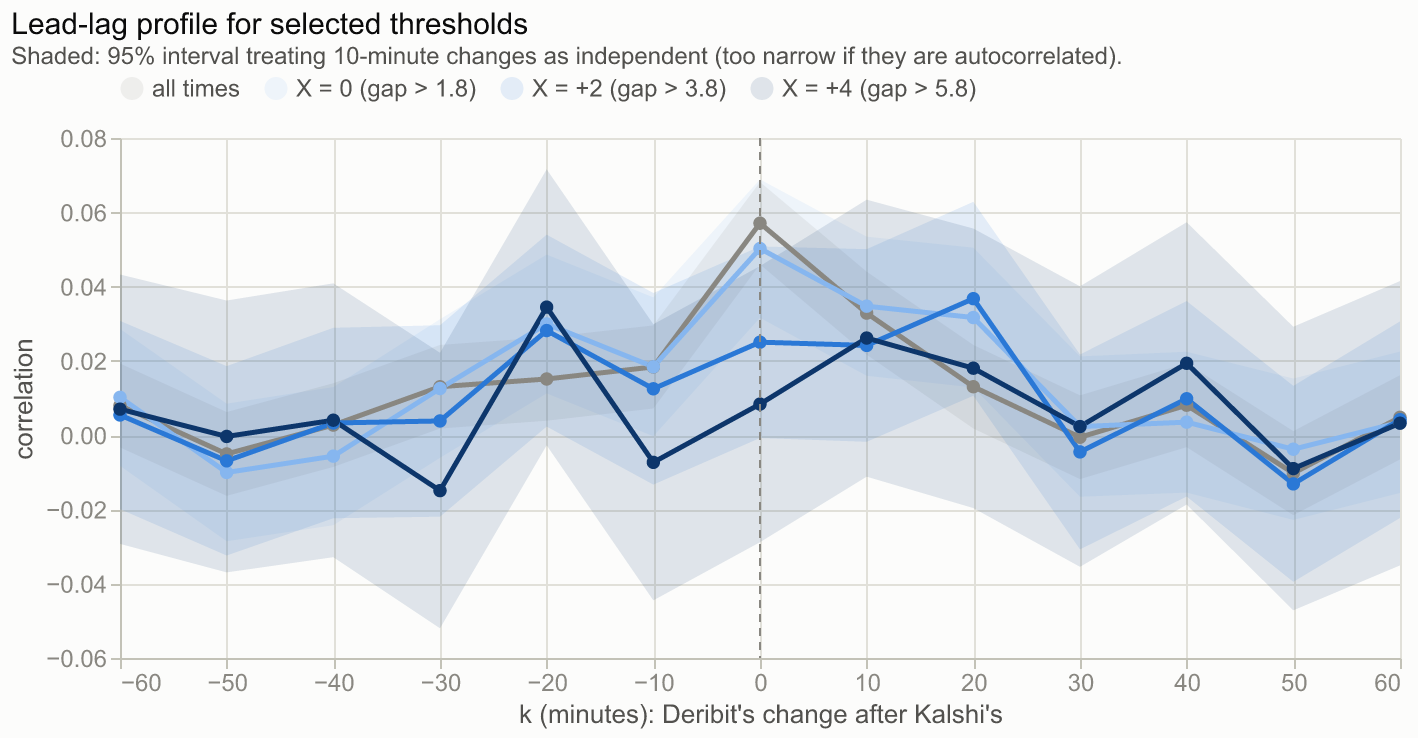
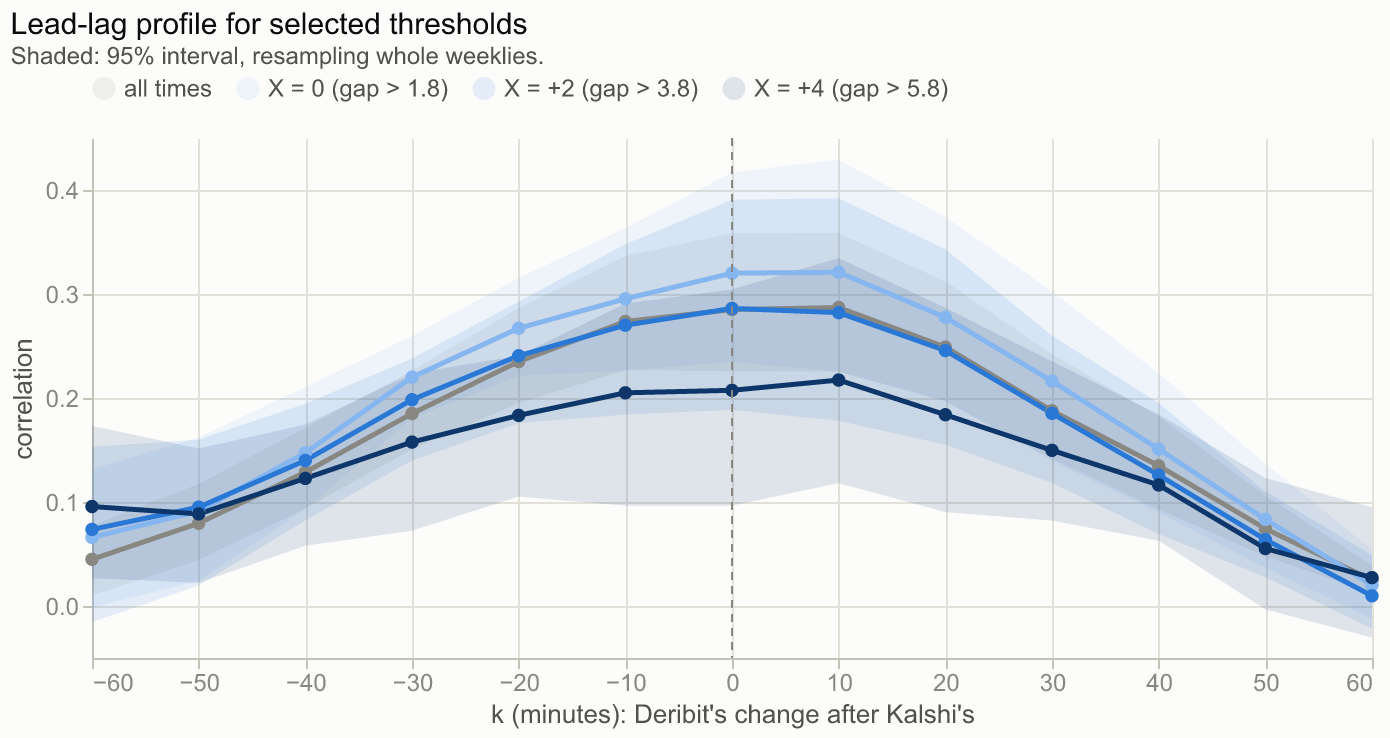
17: lead-lag on 30/60-minute changes (60 by default), week-resampled intervals
10-minute changes are mostly measurement noise (each market's own changes reverse: lag-1
autocorrelation about -0.3), so the same-time correlation is 0.06 at 10 minutes, 0.29 at 60.
conditional_xcorr takes the change window, measures the gap before every change in the window
by default, and bootstraps 95% intervals over whole weeklies (overlapping changes).

diff --git a/17_lead_lag.py b/17_lead_lag.py
@@ -24,23 +24,25 @@ def _(mo):
     Context for the dislocation trade. When Kalshi's vol is unusually far above Deribit's, does one market's move
     show up in the other's a few minutes later?
 
-    **The measure.** Every 10 minutes, the change in each market's at-the-money implied vol: dK(t) for Kalshi's
-    weekly, dD(t) for Deribit's Friday expiry with the same date. Then the correlation between dK(t) and
-    dD(t + k), for k from −60 to +60 minutes in 10-minute steps (`lib/leadlag.py`).
+    **The measure.** The change in each market's at-the-money implied vol over a window of h minutes (60 by default;
+    30 and 10 in the selector below), sampled every 10 minutes: dK(t) for Kalshi's weekly, dD(t) for Deribit's Friday
+    expiry with the same date. Then the correlation between dK(t) and dD(t + k), for k from −60 to +60 minutes in
+    10-minute steps (`lib/leadlag.py`).
 
     - **k > 0**: Deribit's change comes *after* Kalshi's. A peak here means **Kalshi moves first**.
     - **k < 0**: Deribit's change comes first. A peak here means **Deribit moves first**.
-    - **k = 0**: both change in the same 10 minutes.
+    - **k = 0**: both change over the same window.
 
     **The condition.** Only times when the gap, Kalshi − Deribit in vol points, is above **X + 1.8** (1.8 points is
     Kalshi's usual premium), for X from −6 to +6. X = 0 keeps the times Kalshi is richer than usual; X = +4 keeps
-    those where it is 4 points richer than usual. The gap is measured **80 minutes before t**, before every change in
-    the window, so selecting on it cannot select on the changes being correlated (the check at the end shows why
-    this matters).
+    those where it is 4 points richer than usual. The gap is measured **before every change in the window** (60 + h
+    + 10 minutes before t), so selecting on it cannot select on the changes being correlated (the check at the end
+    shows why this matters).
 
-    **How each vol is measured.** Kalshi: its smile every 10 minutes from the 1-minute quotes, as in `03`. Deribit: its
-    smile fitted to the trades in the 10 minutes *before* each time, so it never uses trades from the future, and
-    stretched to Kalshi's 5pm ET expiry as in `05`/`16`.
+    **How each vol is measured.** Kalshi: its smile every 10 minutes from the 1-minute quotes, as in `03`. Deribit:
+    every trade in the 10 minutes *before* each time (so it never uses trades from the future), each trade's mark vol
+    turned into an ATM estimate with the previous hour's smile shape, median taken; stretched to Kalshi's 5pm ET expiry
+    as in `05`/`16`.
 
     It writes nothing when opened; run as a script it saves its figures to `outputs/figures/` (prefixed `17_`).
     """)
@@ -78,7 +80,6 @@ def _(leadlag, mo, pairs):
     ROOT = mo.notebook_dir()
     _hp = pairs.cached_pairs(ROOT)["hour_profile"]
     panel = leadlag.cached_panel(ROOT, _hp)
-    xc = leadlag.conditional_xcorr(panel)
     _live = panel.ts < panel.deribit_expiry
     _both = panel.K.notna() & panel.D.notna()
     mo.md(f"""
@@ -86,15 +87,47 @@ def _(leadlag, mo, pairs):
 
     **{len(panel):,}** usable Kalshi snapshots every 10 minutes in **{panel.event_ticker.nunique()}** weeklies
     ({panel.ts.min():%b %Y} – {panel.ts.max():%b %Y}). {_live.sum():,} fall before Deribit's Friday 08:00 expiry, and
-    **{_both.sum() / _live.sum():.0%}** of those have a Deribit smile from the previous 10 minutes of trades (a median
-    of {panel.n_trades.median():.0f} trades). The gap averages **{panel.gap.mean():+.1f}** points (median
+    **{_both.sum() / _live.sum():.0%}** of those have a Deribit ATM estimate from the previous 10 minutes of trades (a
+    median of {panel.n_trades.median():.0f} trades). The gap averages **{panel.gap.mean():+.1f}** points (median
     {panel.gap.median():+.1f}), against the 1.8 used as "usual".
     """)
-    return ROOT, panel, xc
+    return ROOT, panel
 
 
 @app.cell
-def _(H, INK2, W, alt, leadlag, mo, pd, xc):
+def _(mo):
+    horizon = mo.ui.dropdown({"60 minutes": 60, "30 minutes": 30, "10 minutes": 10}, value="60 minutes",
+                             label="Change window h")
+    return (horizon,)
+
+
+@app.cell
+def _(horizon, leadlag, mo, panel, pd):
+    H_MIN = horizon.value
+    xc = leadlag.conditional_xcorr(panel, change_min=H_MIN)
+    # Why the window matters: 10-minute changes are mostly measurement noise, longer ones carry the common moves
+    _rows = []
+    for _h in (10, 30, 60, 120, 240):
+        _r = leadlag.conditional_xcorr(panel, lags=[0], xs=[], change_min=_h, n_boot=50).iloc[0]
+        _rows.append({"change window": f"{_h} min", "same-time correlation": round(_r["corr"], 2), "observations": f"{_r.n:,}"})
+    mo.vstack([
+        mo.md(f"""
+        ## The change window
+
+        Ten-minute changes in implied vol are mostly measurement noise: Kalshi's quotes move in 1¢ ticks and go stale, and
+        Deribit's estimate rests on a handful of trades, so each market's own 10-minute changes partly reverse the next
+        10 minutes. Noise in two markets does not correlate, while real moves add up over time, so the same-time
+        correlation rises with the window (below). The lead-lag uses **{H_MIN}-minute** changes, still sliding k in
+        10-minute steps; neighbouring observations then overlap, so the 95% intervals resample whole weeklies.
+        """),
+        horizon,
+        mo.ui.table(pd.DataFrame(_rows), selection=None, show_download=False, pagination=False),
+    ])
+    return H_MIN, xc
+
+
+@app.cell
+def _(H, H_MIN, INK2, W, alt, leadlag, mo, pd, xc):
     # Heatmap: correlation by lag (columns) and threshold X (rows); thin cells empty
     _c = xc[xc.x.notna() & (xc.n >= leadlag.MIN_N)].copy()
     _c["X"] = _c.x.astype(int).map(lambda v: f"{v:+d}" if v else "0")
@@ -114,25 +147,31 @@ def _(H, INK2, W, alt, leadlag, mo, pd, xc):
         + _base.mark_text(fontSize=10).encode(text=alt.Text("corr:Q", format="+.2f"), color=alt.condition(
             f"abs(datum.corr) > {_lim * 0.6:.3f}", alt.value("white"), alt.value("#0b0b0b")))
     ).properties(width=W, height=H + 80, title=alt.TitleParams(
-        "Correlation of Kalshi's 10-minute vol change with Deribit's k minutes later",
+        f"Correlation of Kalshi's {H_MIN}-minute vol change with Deribit's, k minutes later",
         subtitle=f"Rows: only times Kalshi − Deribit is above X + 1.8 points; empty cells have fewer than {leadlag.MIN_N} observations."))
 
     _u = xc[xc.x.isna()].set_index("lag")
     _z = xc[(xc.lag == 0) & xc.x.notna()].set_index("x")["corr"]
-    _n4 = int(xc[(xc.lag == 0) & (xc.x == 4)].n.iloc[0])
+    _c6 = xc[(xc.lag == 0) & (xc.x == 6)].iloc[0]
+    _u0 = xc[(xc.lag == 0) & xc.x.isna()].iloc[0]
+    _x6 = xc[xc.x == 6].set_index("lag")["corr"]
+    _l6, _r6 = _x6[_x6.index < 0].mean(), _x6[_x6.index > 0].mean()
     mo.vstack([
         mo.md(f"""
         ## Who moves first
 
         **Unconditionally** (all times), the correlation peaks at **k = {(lambda v: f"{v:+d}" if v else "0")(int(_u["corr"].idxmax()))} minutes**
-        ({_u["corr"].max():+.2f}): the two markets mostly move in the same 10 minutes, with a little more at +10
-        (Kalshi first, {_u["corr"].loc[10]:+.2f}) than at −10 (Deribit first, {_u["corr"].loc[-10]:+.2f}).
+        ({_u["corr"].max():+.2f}, against {_u["corr"].loc[0]:+.2f} at k = 0), and the profile is close to symmetric: {_u["corr"].loc[10]:+.2f} at +10 (Kalshi first)
+        against {_u["corr"].loc[-10]:+.2f} at −10 (Deribit first), {_u["corr"].loc[30]:+.2f} against
+        {_u["corr"].loc[-30]:+.2f} at ±30. Neither market leads: they mostly move together.
 
-        **When Kalshi is rich, the two decouple.** The same-10-minute correlation falls from {_u["corr"].loc[0]:+.2f}
-        (all times) to {_z.loc[0]:+.2f} at X = 0, {_z.loc[2]:+.2f} at X = +2 and {_z.loc[4]:+.2f} at X = +4. No lag picks up
-        what the contemporaneous correlation loses: neither market reliably follows the other within an hour, so a
-        dislocation is not closed by one market catching up with the other's moves. At high thresholds the cells rest on
-        a few thousand changes (95% band about ±{1.96 / _n4 ** 0.5:.2f} at X = +4), so single cells are not significant.
+        **When Kalshi is rich, the two decouple.** The same-time correlation is {_u["corr"].loc[0]:+.2f} at all times,
+        {_z.loc[0]:+.2f} at X = 0, {_z.loc[2]:+.2f} at X = +2, **{_z.loc[4]:+.2f}** at X = +4 and **{_z.loc[6]:+.2f}** at
+        X = +6 (95% interval {_c6.ci_low:+.2f} to {_c6.ci_high:+.2f}, against {_u0.ci_low:+.2f} to {_u0.ci_high:+.2f} at all
+        times). The profile flattens rather than shifting to one side: in a large dislocation the two markets' vols move
+        largely independently, so the gap is not closed by one market quickly copying the other.
+        At X = +6 the Deribit-first side averages {_l6:+.2f} and the Kalshi-first side {_r6:+.2f}: a hint that Kalshi then
+        follows Deribit, on {int(_c6.n):,} observations, so not conclusive.
         """),
         heat_chart,
     ])
@@ -157,7 +196,7 @@ def _(H, INK2, MUTED, W, alt, leadlag, mo, pd, xc):
         + alt.Chart(pd.DataFrame({"x": [0]})).mark_rule(color=MUTED, strokeDash=[4, 3]).encode(x="x:Q")
     ).properties(width=W, height=H, title=alt.TitleParams(
         "Lead-lag profile for selected thresholds",
-        subtitle="Shaded: 95% interval treating 10-minute changes as independent (too narrow if they are autocorrelated)."))
+        subtitle="Shaded: 95% interval, resampling whole weeklies."))
 
     # Observations kept by each threshold
     _nn = xc[(xc.lag == 0) & xc.x.notna()].assign(X=lambda d: d.x.astype(int))
@@ -187,14 +226,16 @@ def _(H, INK2, MUTED, W, alt, leadlag, mo, pd, xc):
 
 
 @app.cell
-def _(H, MUTED, W, alt, leadlag, mo, panel, pd, xc):
-    # Check: why the gap is measured 80 minutes before t. Measured at the start of Kalshi's change instead, it shares
-    # its time stamp with the end of Deribit's change at k = -10, and selecting on a difference of two noisy readings
-    # correlates their noise: a spurious negative correlation that deepens with the threshold.
-    _late = leadlag.conditional_xcorr(panel, lags=[-10], gap_lead_min=leadlag.STEP_MIN)
+def _(H, MUTED, W, alt, leadlag, mo, panel, pd):
+    # Check, on 10-minute changes where it is clearest: why the gap is measured before every change in the window.
+    # Measured at the start of Kalshi's change instead, it shares its time stamp with the end of Deribit's change at
+    # k = -10, and selecting on a difference of two noisy readings correlates their noise: a spurious negative
+    # correlation that deepens with the threshold.
+    _late = leadlag.conditional_xcorr(panel, lags=[-10], change_min=10, gap_lead_min=10, n_boot=50)
+    _clean = leadlag.conditional_xcorr(panel, lags=[-10], change_min=10, n_boot=50)      # gap 80 minutes before t
     _cmp = pd.concat([
         _late[_late.x.notna()].assign(timing="gap at the start of Kalshi's change (biased)"),
-        xc[(xc.lag == -10) & xc.x.notna()].assign(timing="gap 80 minutes earlier (used)"),
+        _clean[_clean.x.notna()].assign(timing="gap 80 minutes earlier (used)"),
     ])
     _dom = ["gap at the start of Kalshi's change (biased)", "gap 80 minutes earlier (used)"]
     check_chart = (
@@ -203,13 +244,13 @@ def _(H, MUTED, W, alt, leadlag, mo, panel, pd, xc):
             color=alt.Color("timing:N", title=None, sort=_dom, legend=alt.Legend(labelLimit=0), scale=alt.Scale(domain=_dom, range=["#c23b3b", "#2a78d6"])),
             tooltip=["timing:N", "x:Q", alt.Tooltip("corr:Q", format="+.3f"), alt.Tooltip("n:Q", format=",")])
         + alt.Chart(pd.DataFrame({"y": [0]})).mark_rule(color=MUTED, strokeDash=[4, 3]).encode(y="y:Q")
-    ).properties(width=W, height=H - 40, title="Check: the k = −10 correlation under the two gap timings")
-    _b, _g = _late.set_index("x")["corr"], xc[(xc.lag == -10)].set_index("x")["corr"]
+    ).properties(width=W, height=H - 40, title="Check (10-minute changes): the k = −10 correlation under the two gap timings")
+    _b, _g = _late.set_index("x")["corr"], _clean.set_index("x")["corr"]
     mo.vstack([
         mo.md(f"""
         ## Check: when the gap is measured matters
 
-        Measured at the start of Kalshi's change, the gap shares its time stamp with the *end* of Deribit's change at
+        With 10-minute changes, measured at the start of Kalshi's change, the gap shares its time stamp with the *end* of Deribit's change at
         k = −10. Selecting times where a difference of two noisy readings is large makes those readings' noise
         correlated, which shows up as a negative correlation at k = −10 that deepens with the threshold
         ({_b.loc[0]:+.3f} at X = 0, {_b.loc[4]:+.3f} at X = +4, {_b.loc[6]:+.3f} at X = +6). It would read as "when

diff --git a/lib/leadlag.py b/lib/leadlag.py
@@ -6,7 +6,8 @@
 2. Deribit: the Friday 08:00 expiry with the Kalshi weekly's date; its ATM vol from the trades in the 10 minutes
    *before* each time (so Deribit never sees the future): each trade's mark vol with the smile's shape taken out
    (`deribit_atm`), stretched to Kalshi's 5pm ET expiry with the hour-of-week profile as everywhere else.
-3. Changes: dK(t) = K(t) - K(t - 10 min), dD(t) likewise, within one weekly, only between consecutive grid times.
+3. Changes: dK(t) = K(t) - K(t - h), dD(t) likewise, within one weekly, over h = 10, 30 or 60 minutes (sampled every
+   10 minutes; 10-minute changes are mostly measurement noise, so longer h shows the co-movement more clearly).
 4. Lead-lag: corr(dK(t), dD(t + k)) for k = -60 ... +60 minutes. k > 0: Deribit's change comes after Kalshi's, so a
    peak there means Kalshi moves first; k < 0: Deribit moves first.
 5. Conditioning: only times t whose gap (Kalshi - Deribit, vol points) 80 minutes before t, before every change in
@@ -97,33 +98,52 @@ def _at(s: pd.Series, events, ts) -> np.ndarray:
     return s.reindex(pd.MultiIndex.from_arrays([events, ts])).to_numpy()
 
 
-def conditional_xcorr(p: pd.DataFrame, lags=range(-60, 61, 10), xs=range(-6, 7), normal: float = NORMAL_GAP,
-                      step_min: int = STEP_MIN, gap_lead_min: int = 60 + 2 * STEP_MIN) -> pd.DataFrame:
-    """corr(dK(t), dD(t + lag)) for each lag (minutes) and threshold X, over times t whose gap `gap_lead_min` minutes
-    before t is above X + `normal`. Also the unconditional row (X = None). Columns: x, threshold, lag, corr, n,
-    ci_low, ci_high (Fisher-z 95% interval treating observations as independent, so it is too narrow if changes are
-    serially correlated), plus the mean gap of the selected times.
+def _corr_from_sums(s: np.ndarray) -> np.ndarray:
+    """Pearson correlation from summed moments [n, Σa, Σb, Σa², Σb², Σab] along the last axis."""
+    n, a, b, aa, bb, ab = np.moveaxis(s, -1, 0)
+    with np.errstate(invalid="ignore", divide="ignore"):
+        return (ab - a * b / n) / np.sqrt((aa - a * a / n) * (bb - b * b / n))
 
-    Default: the gap 80 minutes before t, before every change in the window. Measured later (e.g. at the start of
-    Kalshi's change, gap_lead_min = step) it shares a time stamp with the end of Deribit's
-    change at lag -step, and selecting on a difference of two noisy readings correlates their noise: a spurious
-    negative correlation at that lag."""
-    step = pd.Timedelta(minutes=step_min)
+
+def conditional_xcorr(p: pd.DataFrame, lags=range(-60, 61, 10), xs=range(-6, 7), normal: float = NORMAL_GAP,
+                      change_min: int = STEP_MIN, gap_lead_min: int | None = None, n_boot: int = 300,
+                      seed: int = 0) -> pd.DataFrame:
+    """corr(dK(t), dD(t + lag)) for each lag (minutes) and threshold X, where dK(t) = K(t) - K(t - change_min) and
+    likewise dD, over times t whose gap `gap_lead_min` minutes before t is above X + `normal`. Also the unconditional
+    row (X = None). Columns: x, threshold, lag, corr, n, ci_low, ci_high, mean_gap.
+
+    Changes over `change_min` minutes are taken every STEP_MIN minutes, so with change_min > STEP_MIN neighbouring
+    observations overlap; the 95% interval therefore resamples whole weeklies (`n_boot` times), not observations.
+
+    `gap_lead_min` defaults to the earliest time any change in the window starts, one step before it: max(-min(lags),
+    0) + change_min + STEP_MIN. Measured later (e.g. at the start of Kalshi's change) the gap shares a time stamp with
+    the end of one of Deribit's changes, and selecting on a difference of two noisy readings correlates their noise: a
+    spurious negative correlation at that lag."""
+    lags = list(lags)
+    if gap_lead_min is None:
+        gap_lead_min = max(-min(lags), 0) + change_min + STEP_MIN
+    h = pd.Timedelta(minutes=change_min)
     idx = p.set_index(["event_ticker", "ts"])
     K, D, G = idx.K, idx.D, idx.gap
     ev, ts = p.event_ticker.to_numpy(), p.ts
-    dK = p.K.to_numpy() - _at(K, ev, ts - step)
+    dK = p.K.to_numpy() - _at(K, ev, ts - h)
     gap0 = _at(G, ev, ts - pd.Timedelta(minutes=gap_lead_min))
-    dD = {L: _at(D, ev, ts + pd.Timedelta(minutes=L)) - _at(D, ev, ts + pd.Timedelta(minutes=L) - step) for L in lags}
+    dD = {L: _at(D, ev, ts + pd.Timedelta(minutes=L)) - _at(D, ev, ts + pd.Timedelta(minutes=L) - h) for L in lags}
+    codes, events = pd.factorize(ev)
+    rng = np.random.default_rng(seed)
+    boot = np.stack([np.bincount(rng.integers(0, len(events), len(events)), minlength=len(events))
+                     for _ in range(n_boot)])                                     # times each weekly is drawn
     rows = []
     for x in [None, *xs]:
         sel = np.ones(len(p), bool) if x is None else (gap0 > x + normal)
         for L in lags:
             ok = sel & np.isfinite(dK) & np.isfinite(dD[L])
-            n = int(ok.sum())
-            r = float(np.corrcoef(dK[ok], dD[L][ok])[0, 1]) if n >= 3 else np.nan
-            z, se = np.arctanh(np.clip(r, -0.999999, 0.999999)), 1 / np.sqrt(max(n - 3, 1))
-            rows.append({"x": x, "threshold": None if x is None else x + normal, "lag": L, "corr": r, "n": n,
-                         "ci_low": float(np.tanh(z - 1.96 * se)), "ci_high": float(np.tanh(z + 1.96 * se)),
-                         "mean_gap": float(np.nanmean(gap0[ok])) if n else np.nan})
+            a, b, c = dK[ok], dD[L][ok], codes[ok]
+            per = np.stack([np.bincount(c, w, len(events)) for w in (np.ones_like(a), a, b, a * a, b * b, a * b)], -1)
+            r = float(_corr_from_sums(per.sum(0))) if ok.sum() >= 3 else np.nan
+            rb = _corr_from_sums(boot @ per) if ok.sum() >= 3 else np.full(n_boot, np.nan)
+            rows.append({"x": x, "threshold": None if x is None else x + normal, "lag": L, "corr": r, "n": int(ok.sum()),
+                         "ci_low": float(np.nanpercentile(rb, 2.5)) if ok.sum() >= 3 else np.nan,
+                         "ci_high": float(np.nanpercentile(rb, 97.5)) if ok.sum() >= 3 else np.nan,
+                         "mean_gap": float(np.nanmean(gap0[ok])) if ok.any() else np.nan})
     return pd.DataFrame(rows)

diff --git a/tests/test_leadlag.py b/tests/test_leadlag.py
@@ -25,7 +25,18 @@ def test_condition_filters_on_gap_before_the_change():
     p = synthetic_panel()
     r = leadlag.conditional_xcorr(p, lags=[0], xs=[-100, 100], normal=0)
     loose, strict = r[r.x == -100].iloc[0], r[r.x == 100].iloc[0]
-    assert loose.n == p.shape[0] - 8          # by default the gap is 80 min before t: the first 8 times have none
+    assert loose.n == p.shape[0] - 2          # lag 0, 10-min changes: gap 20 min before t, so the first 2 times have none
     assert strict.n == 0 and np.isnan(strict["corr"])
     late = leadlag.conditional_xcorr(p, lags=[0], xs=[-100], normal=0, gap_lead_min=10)
     assert late[late.x == -100].iloc[0].n == p.shape[0] - 1
+
+
+def test_longer_changes_and_week_intervals():
+    # 60-minute changes over lags -60..+60: the gap is taken 60 + 60 + 10 = 130 minutes before t
+    p = pd.concat([synthetic_panel(seed=s).assign(event_ticker=f"E{s}") for s in range(6)], ignore_index=True)
+    r = leadlag.conditional_xcorr(p, xs=[-100], normal=0, change_min=60)
+    row = r[(r.x == -100) & (r.lag == 20)].iloc[0]
+    assert row.n == 6 * (4000 - 13 - 2)       # per weekly: first 13 times have no gap 130 min earlier, last 2 no D 20 min later
+    assert row.ci_low <= row["corr"] <= row.ci_high
+    u = r[r.x.isna()].set_index("lag")["corr"]
+    assert u.idxmax() == 20                   # Kalshi still leads by 20 minutes
